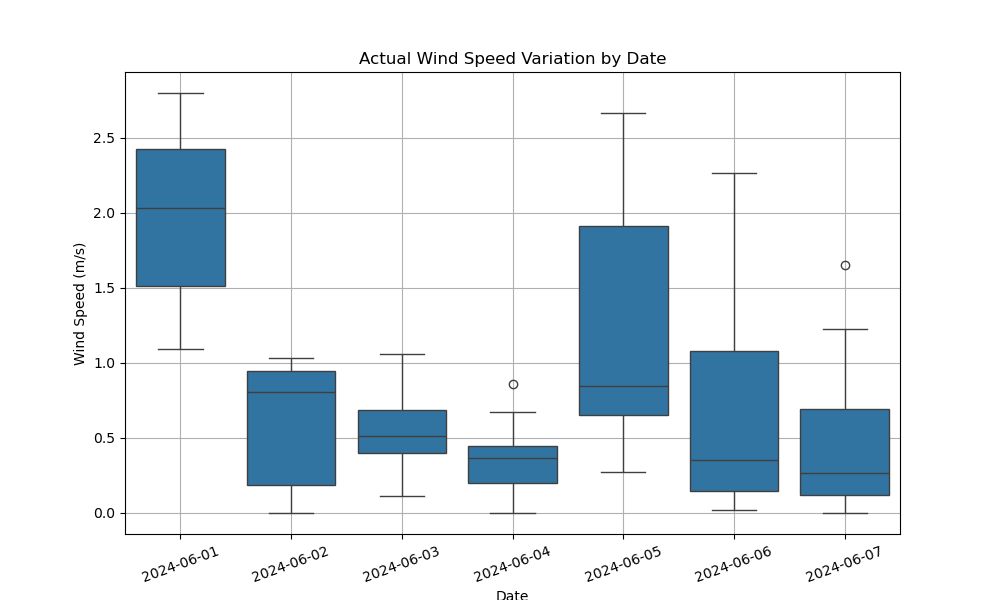
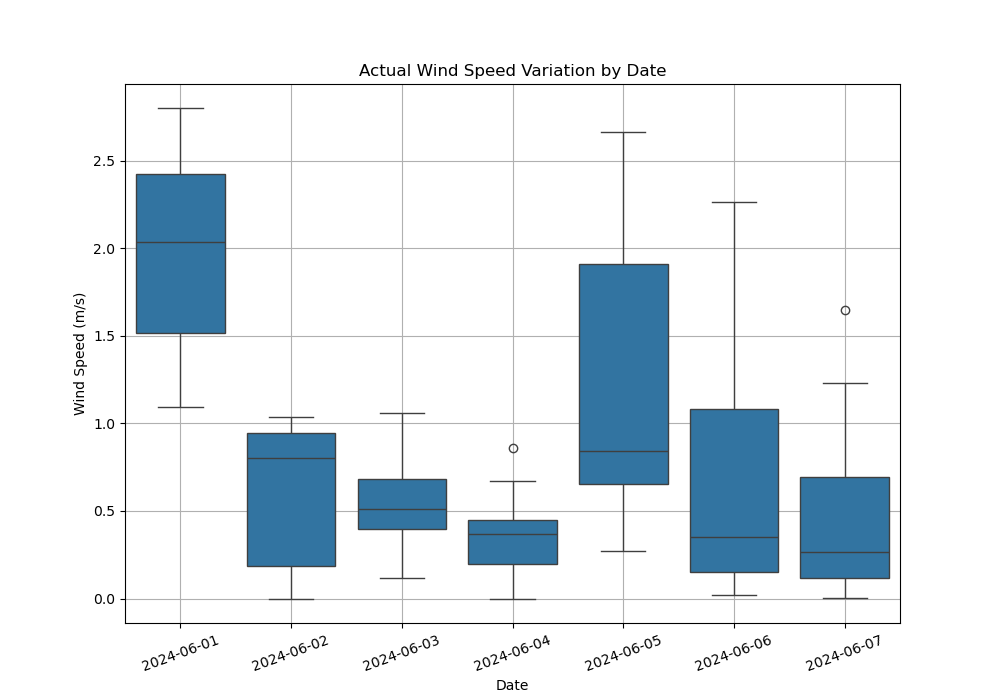
Correct Visualizations and Code Pieces

diff --git a/main.py b/main.py
@@ -230,7 +230,7 @@ plt.show()
 # ======================================================================================================================
 
 # Show a time series with the actual and the forecast temperature:
-plt.figure(figsize=(10, 6))
+plt.figure(figsize=(10, 7))
 plt.plot(station_resampled['Date'], station_resampled['Temperature'], label='Actual Temperature')
 plt.plot(gfs_forecast['Date'], gfs_forecast['GFS Temp'], label='GFS Temperature', color='orange')
 plt.plot(ifs_forecast['Date'], ifs_forecast['IFS Temp'], label='IFS Temperature', color='green')
@@ -268,7 +268,7 @@ print('Explore the Calm Wind DataFrame:\n')
 explore_calm_wind_data.info()
 
 # Show the wind speed variations by date:
-plt.figure(figsize=(10, 6))
+plt.figure(figsize=(10, 7))
 sns.boxplot(x=station_resampled['Date'].dt.date, y=station_resampled['Wind Speed'])
 plt.xticks(rotation=20)
 plt.xlabel('Date')
@@ -278,7 +278,7 @@ plt.grid(True)
 plt.show()
 
 # Show a time series with the actual and the forecast wind speeds:
-plt.figure(figsize=(10, 6))
+plt.figure(figsize=(10, 7))
 plt.plot(station_resampled['Date'], station_resampled['Wind Speed'], label='Actual Wind Speed')
 plt.plot(gfs_forecast['Date'], gfs_forecast['GFS Wind Speed'], label='GFS Wind Speed', color='orange')
 plt.plot(ifs_forecast['Date'], ifs_forecast['IFS Wind Speed'], label='IFS Wind Speed', color='green')
@@ -289,6 +289,7 @@ plt.ylabel('Wind Speed (m/s)')
 plt.title('Actual VS Predicted Wind Speed over Time')
 plt.grid(True)
 plt.legend()
+plt.show()
 
 # ======================================================================================================================
 # *** Exploratory Data Analysis on Wind Direction ***
@@ -297,7 +298,7 @@ plt.legend()
 # Show circular histograms for wind direction in the same figure:
 
 # Create a figure with subplots:
-fig, axs = plt.subplots(1, 3, figsize=(10, 18), subplot_kw={'polar': True})
+fig, axs = plt.subplots(1, 3, figsize=(12, 5), subplot_kw={'polar': True})
 angles = np.linspace(0, 2 * np.pi, 9)
 
 # Create circular histogram for actual data vs GFS forecasts:
